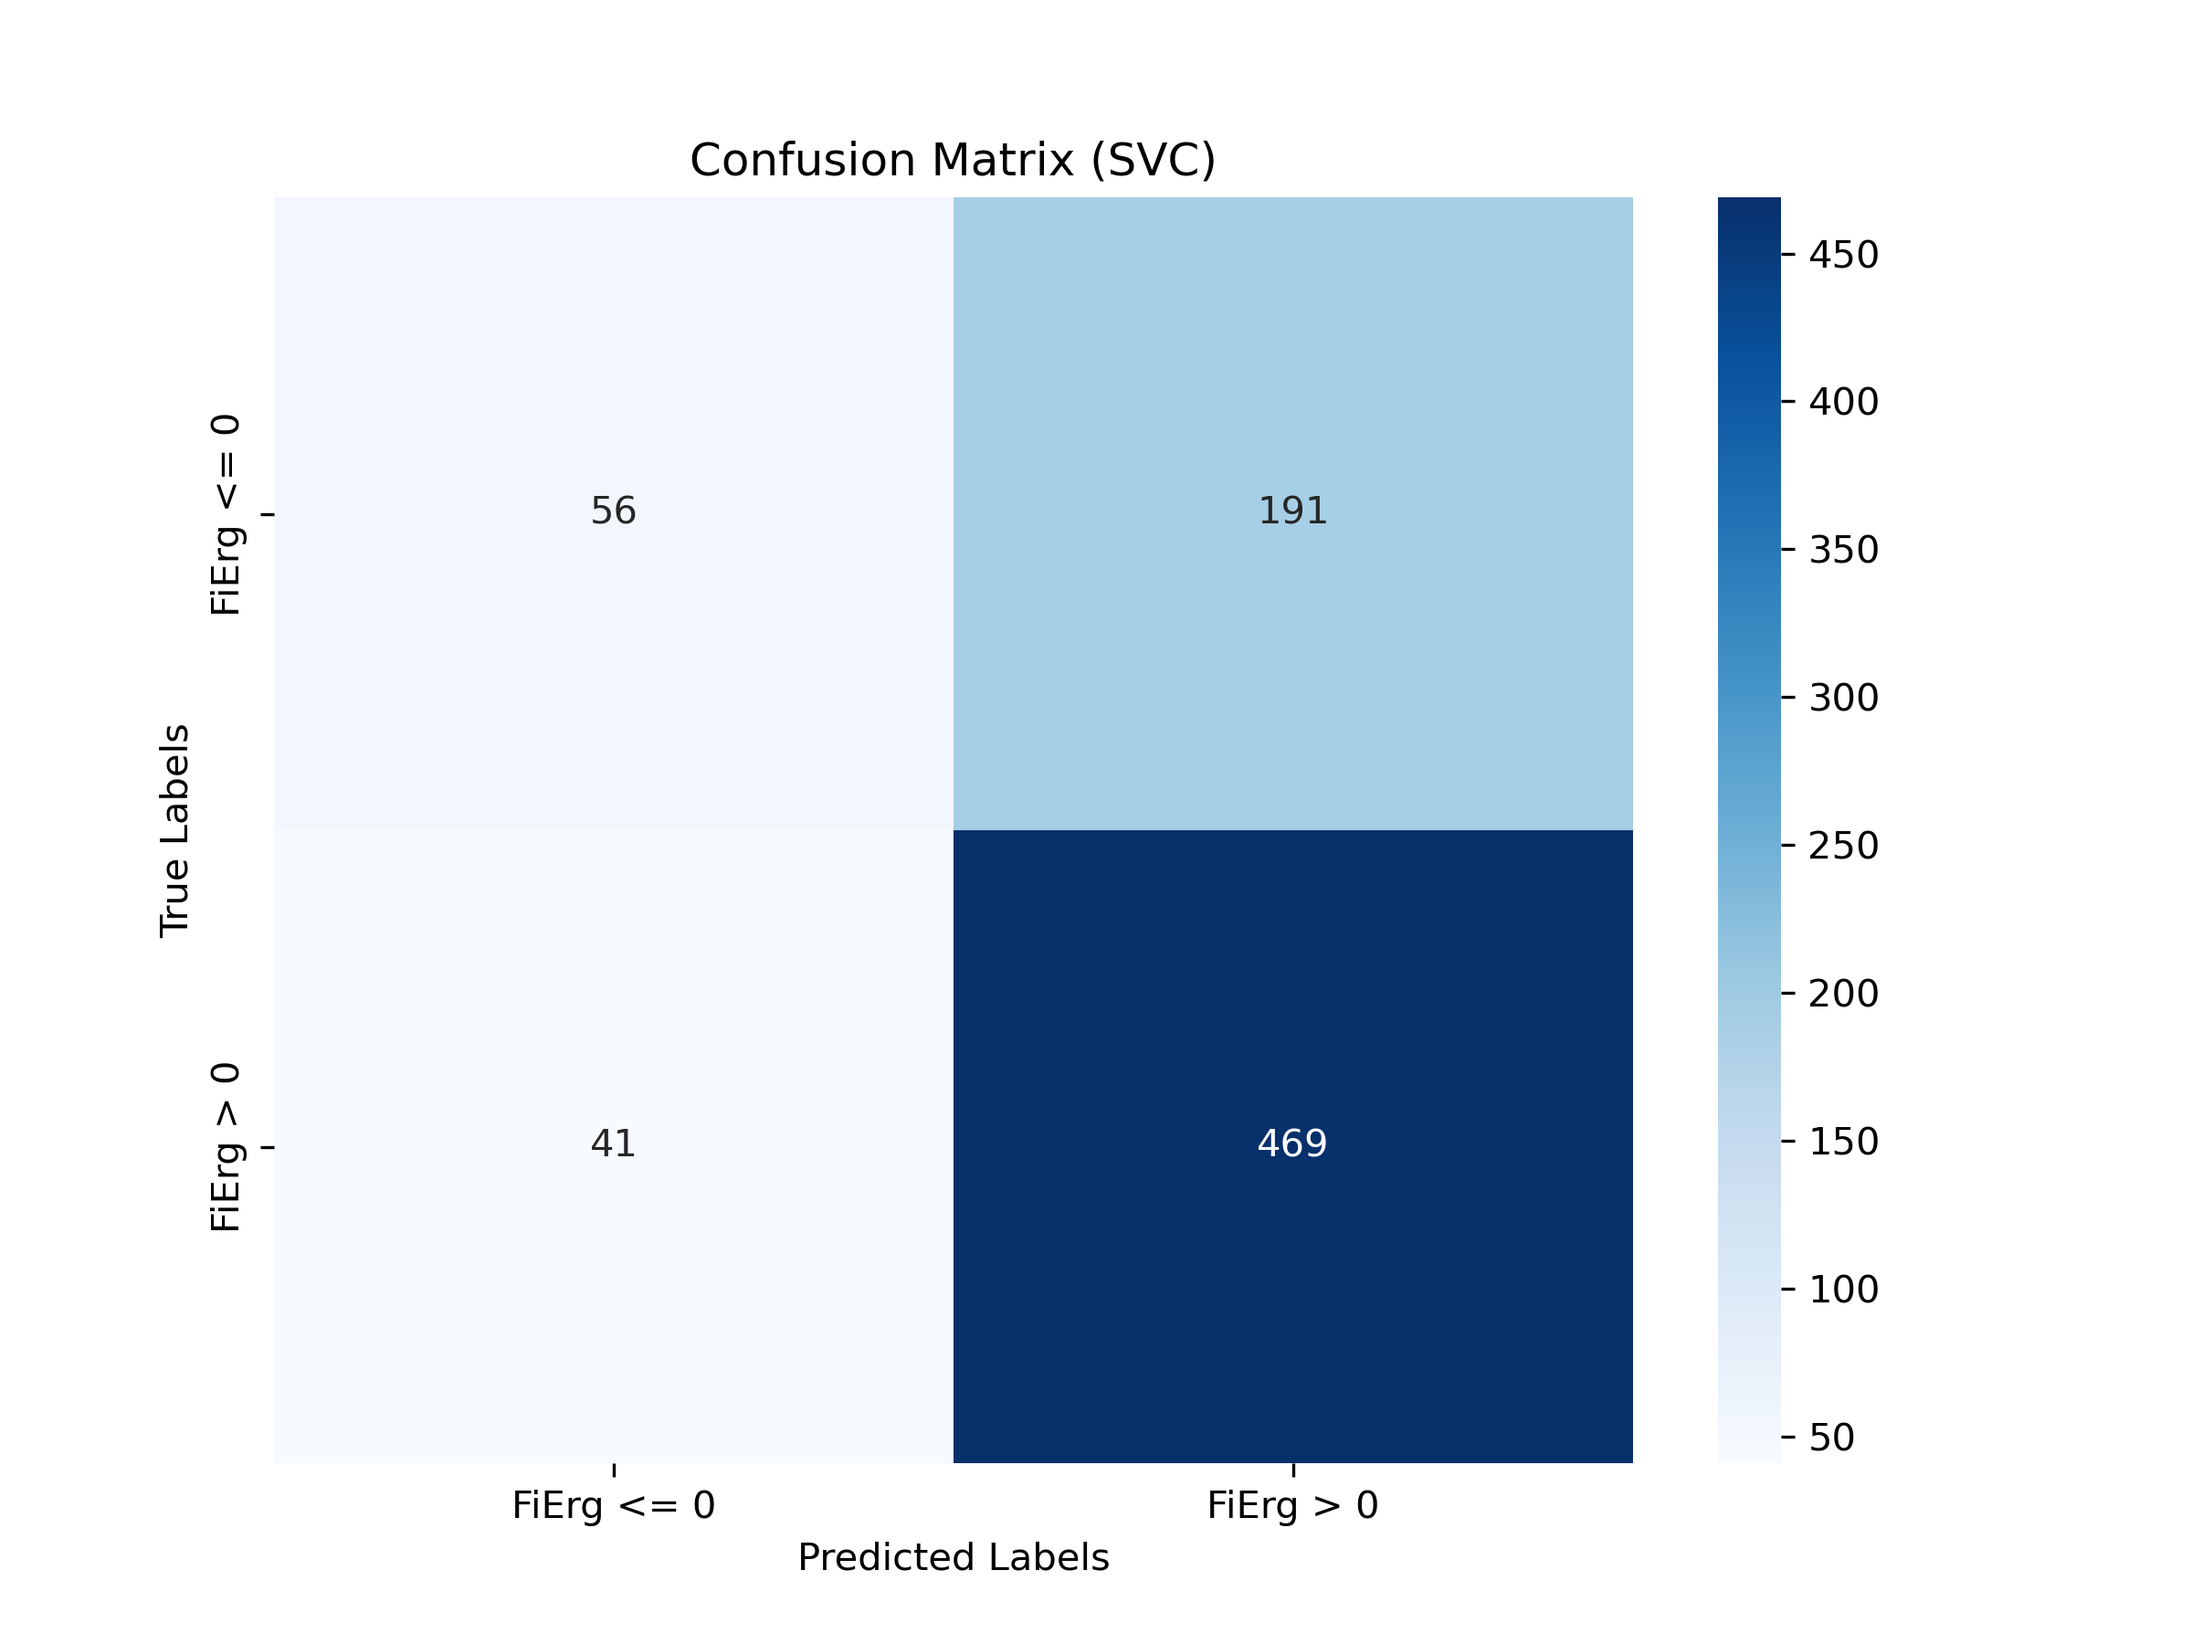
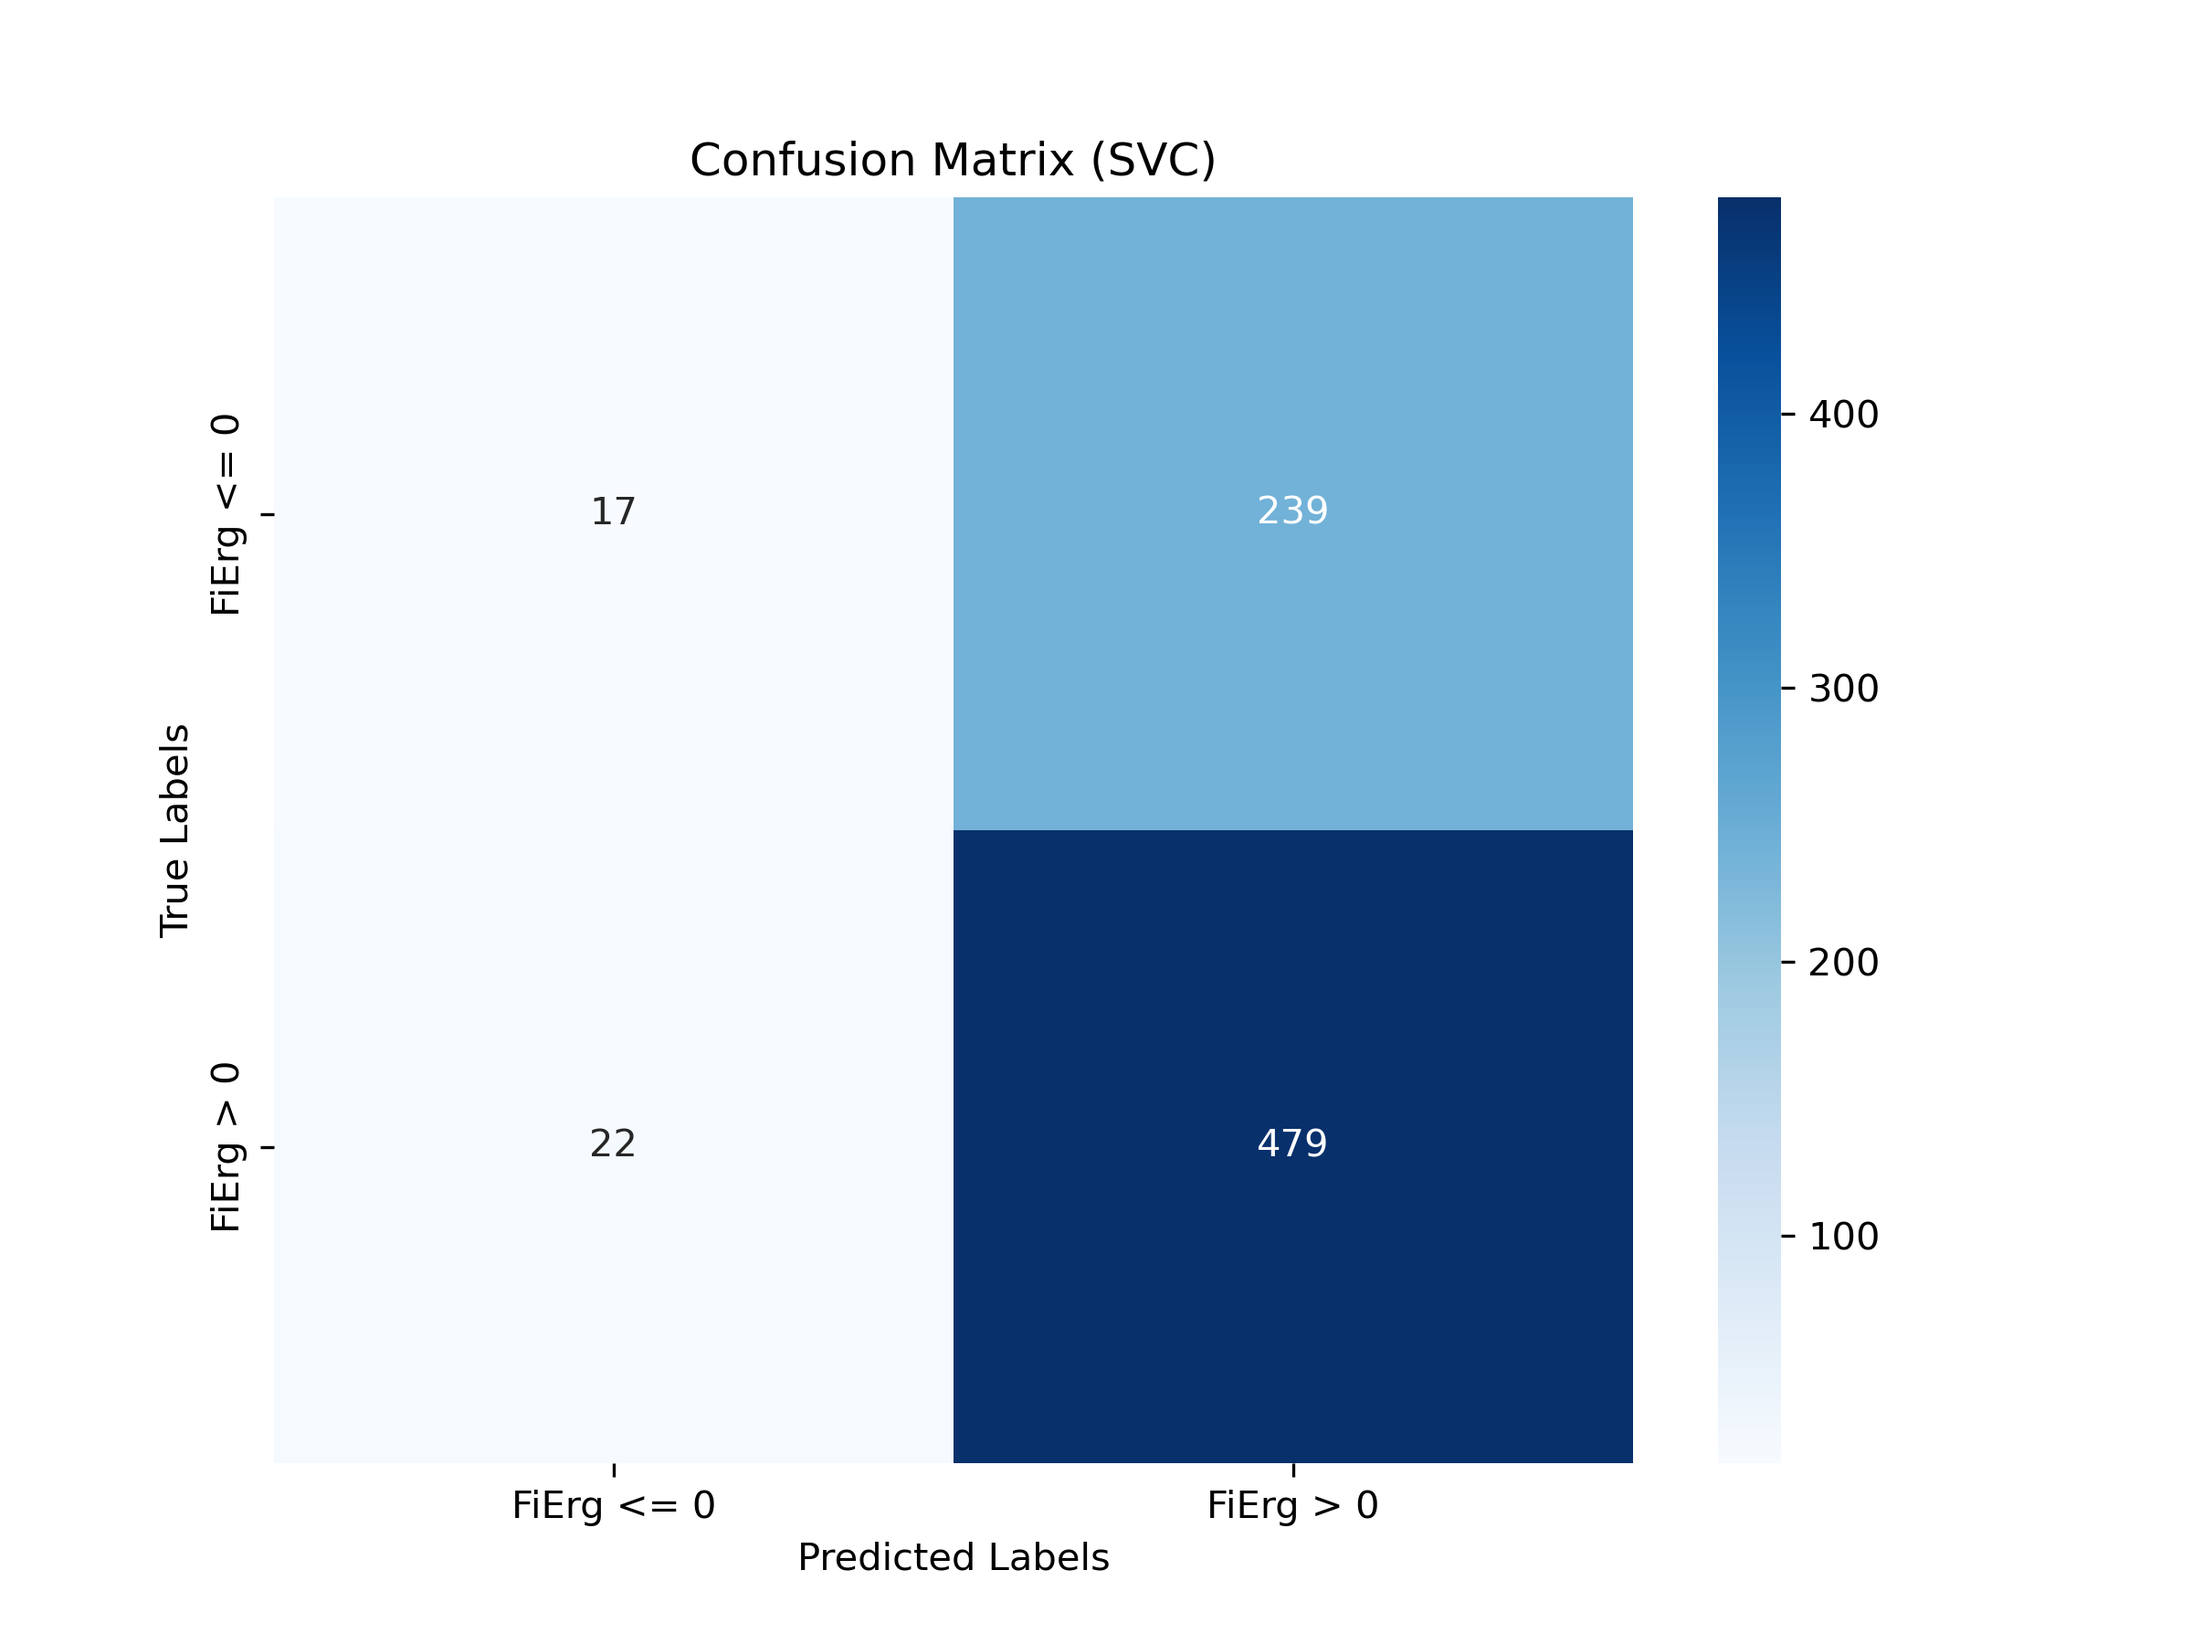
-

diff --git a/SVM.py b/SVM.py
@@ -71,11 +71,30 @@ data[label] = (data[label] > 0).astype(int)
 # Split
 X = data[features]
 y = data[label]
-X_train, X_test, y_train, y_test = train_test_split(X, y, test_size=tt_size, random_state=42) #stratifying ???????????????????????????????????????????????????????????
+
+################################### NEW ###############################
+yeares = data["JAHR"]
+
+#for all years
+if current_year == "all":
+    stratify_col = y.astype(str) + "_" + yeares.astype(str)
+
+else:
+    stratify_col = y
+
+X_train, X_test, y_train, y_test = train_test_split(
+    X, y, test_size=0.2, random_state=10, stratify= stratify_col)  #for all years also stratify years
+
+############################################################################################################
+
+#X_train, X_test, y_train, y_test = train_test_split(X, y, test_size=tt_size, random_state=42) #stratifying ???????????????????????????????????????????????????????????
+
+
 
 # Feature types
 numerical_features = X.select_dtypes(include=["int64", "float64"]).columns.tolist()
 categorical_features = X.select_dtypes(include=["object"]).columns.tolist()
+
 
 # --- Preprocessing and modeling ---
 

diff --git a/Data_Preparation.py b/Data_Preparation.py
@@ -54,8 +54,8 @@ data = data.drop(columns=["Ort"])
 features.remove("Ort")
 
 #Dropping SA !!!!!!!!!!!!!!!!!!!!!!!!!!!!!!!!!!!!!!!!!!
-#data = data.drop(columns=["SA"])
-#features.remove("SA")
+data = data.drop(columns=["SA"])
+features.remove("SA")
 
 #Dropping Columns with 100% Missing Data
 #columns to drop
